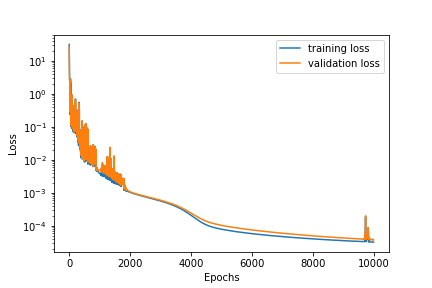
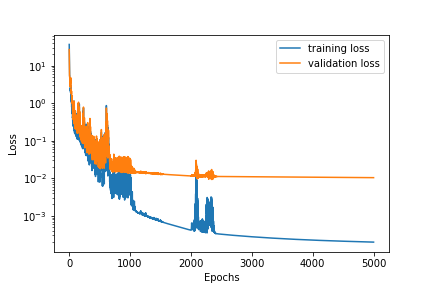
[Edited] Grey Box Fixed, trying with no initial (NO GOOD DATA YET)

diff --git a/config.py b/config.py
@@ -14,7 +14,7 @@ config["DATA"]["MAX_DELTA_T"] = 5 # Timestep in integrator
 config["DATA"]["DT_MU"] = config["DATA"]["TMAX"] / (config["DATA"]["X_SAMPLE_NUM"][0] - 1)
 config["DATA"]["DT_SIGMA"] = config["DATA"]["DT_MU"] / 2
 config["DATA"]["REG_TIME"] = False   # True for regular sampling in time (Delta_T = const), False for random sampling in time Uniform~ (0, Delta_T)
-config["DATA"]["INIT_AVAILABLE"] = True   # True for ALL initial conditions available at time 0, False for Not available
+config["DATA"]["INIT_AVAILABLE"] = False   # True for ALL initial conditions available at time 0, False for Not available
 config["DATA"]["FULL_OBSERVATIONS"] = False   # Only activates for REG_TIME = False ## NOT IMPLEMENTED FOR BandF YET
 config["DATA"]["DUP_REVERSE"] = False   # To train forwards AND backwards in time!
 
@@ -24,7 +24,7 @@ config["PAR"]["sf"] = 2.5
 config["TRAINING"] = {}
 config["TRAINING"]["BATCH_SIZE"] = 512
 config["TRAINING"]["LEARNING_RATE"] = 1e-2
-config["TRAINING"]["EPOCHS"] = 10000 # 1000 # 1259 # 2539 # 5260
+config["TRAINING"]["EPOCHS"] = 5000 # 1000 # 1259 # 2539 # 5260
 
 config["MODEL"] = {}
 config["MODEL"]["NUM_HIDDEN"] = [32, 32]

diff --git a/train_model.py b/train_model.py
@@ -36,13 +36,13 @@ def main(config):
                                 shuffle=True, num_workers=1, pin_memory=True)
     
     
-    # print('FalsityFalse')
+    print('Saving Training Data')
     # print(dataset_train.x.shape)
-    # np.save("data/training_data",data_train[0])
-    # np.save("data/training_data_par",data_train[1])
-    # np.save("data/training_data_detail_t",data_train[2])
-    # np.save("data/training_data_detail_x",data_train[3])
-    # np.save("data/training_data_detail_par",data_train[4])
+    np.save("data/training_data",data_train[0])
+    np.save("data/training_data_par",data_train[1])
+    np.save("data/training_data_detail_t",data_train[2])
+    np.save("data/training_data_detail_x",data_train[3])
+    np.save("data/training_data_detail_par",data_train[4])
     # assert False
 
     # xmax = np.nanmax(np.nanmax(np.array(dataset_train.x), axis=1), axis=0)

diff --git a/main/utils.py b/main/utils.py
@@ -277,7 +277,7 @@ class Model_Train():
         
         self.optimizer = torch.optim.AdamW([
         {'params': ANN_params},
-        {'params': init_params, 'lr': self.lr/5},
+        {'params': init_params, 'lr': self.lr},
         {'params': other_params, 'lr': self.lr/5}],
             lr=self.lr, amsgrad=True, weight_decay=0.01)
 
